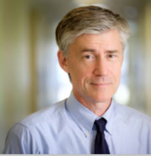
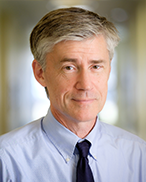
Change presenters and fix image

diff --git a/src/pages/sessions/working_group.js b/src/pages/sessions/working_group.js
@@ -13,11 +13,11 @@ const coverImage = require('../../assets/working_group/cover.png')
 const sheilaImage = require('../../assets/working_group/sheila.png')
 const claireImage = require('../../assets/working_group/claire.png')
 const johnImage = require('../../assets/working_group/john.png')
-const lingImage = require('../../assets/working_group/ling.png')
+const belindaImage = require('../../assets/working_group/belinda.png')
 const davidImage = require('../../assets/working_group/david.png')
 const mariaImage = require('../../assets/working_group/maria.png')
 
-export default function WorkingGroupPage () {
+export default function WorkingGroupPage() {
   return (
     <main>
       <TitleSection>
@@ -93,18 +93,23 @@ export default function WorkingGroupPage () {
           <Image src={johnImage} />
         </Row>
 
-        <h3>
-          Ling Mu, Tsinghua University School of Public Policy &amp; Management
-        </h3>
+        <h3>Belinda Bardwell, West Michigan Environmental Action Council</h3>
         <Row>
           <p>
-            Ling is an Assistant Professor at the School of Public Policy at
-            Tsinghua University in Beijing, China and Director of the China Case
-            Center for Public Policy &amp; Management. She is currently using
-            cases in training and continuing education for civic leaders. Her
-            research focuses on public budgeting.
+            Belinda Bardwell is a commissioner for the Grand Rapids Community
+            Relations Commission, as well as a board member for the West
+            Michigan Environmental Action Council. She has served as project
+            coordinator and spokesperson for the "Gi-gikinomaage-min (We are all
+            teachers): Defend Our History, Unlock Your Spirit" initiative since
+            its launch in 2014. She is also a member of the Gi-gikinomaage-min
+            Advisory Council, serving as the project's lead oral historian, and
+            a proud citizen of the Little Traverse Bay Bands of Odawa Indians.
+            She recently traveled to Montreal with WMEAC leadership and Rebecca
+            Hardin (Michigan Sustainability Cases' Director), as a
+            representative to the North American Dialogue on Biocultural
+            Diversity.
           </p>
-          <Image src={lingImage} />
+          <Image src={belindaImage} />
         </Row>
 
         <h3>
